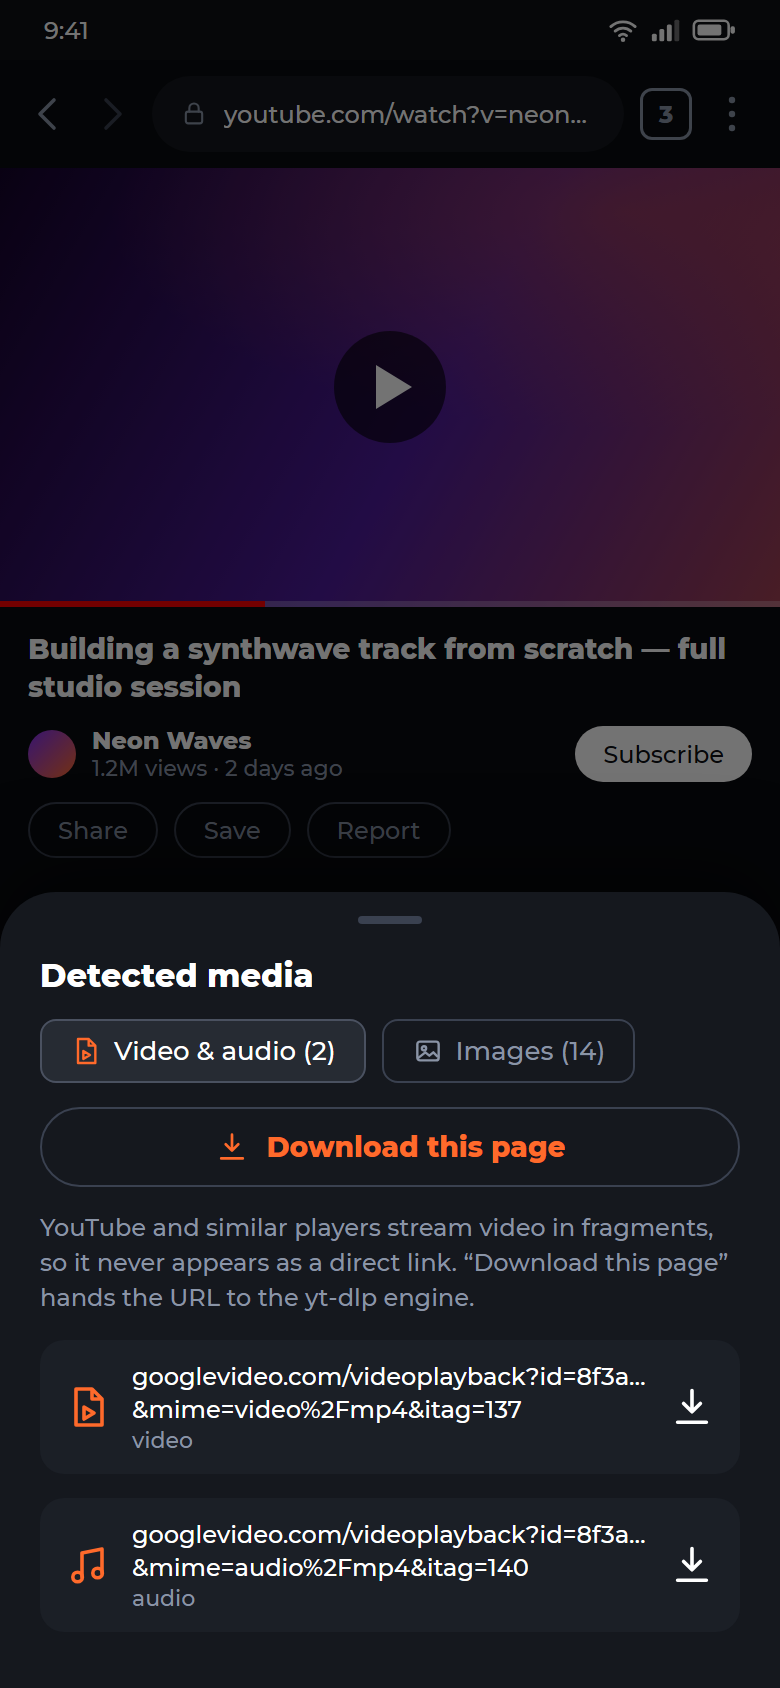
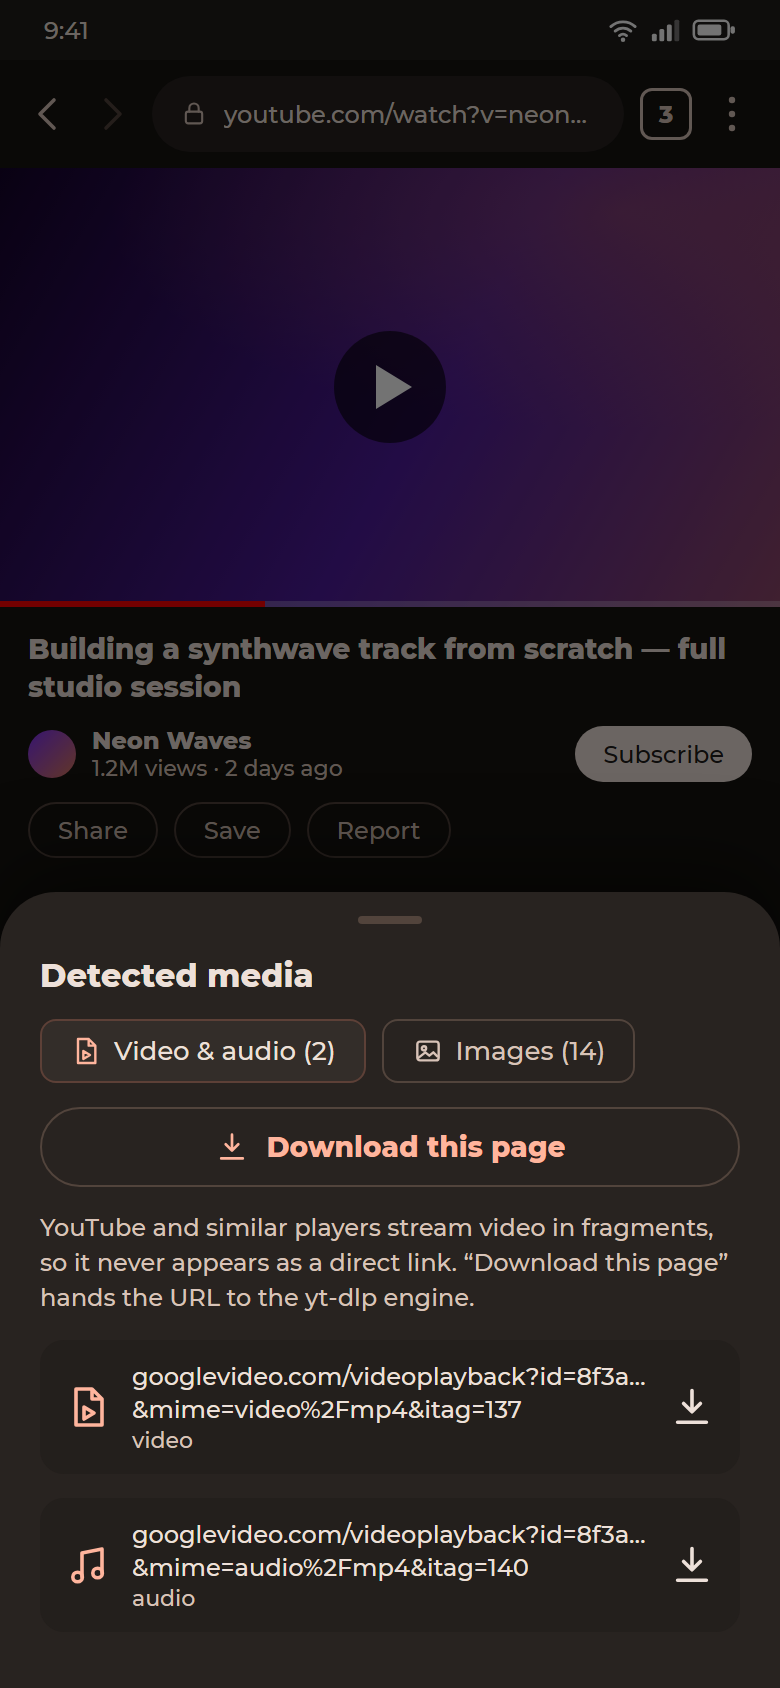
fix(stream): use SubtitlesStream.languageTag (verified v0.27.1 API)
Also add light/dark @Preview coverage for scheme, components and player
parts, and refresh docs screenshots with the charcoal/terracotta palette.

diff --git a/app/src/main/java/com/raisoft/grabi/ui/theme/ThemePreviews.kt b/app/src/main/java/com/raisoft/grabi/ui/theme/ThemePreviews.kt
@@ -1,0 +1,120 @@
+package com.raisoft.grabi.ui.theme
+
+import androidx.compose.foundation.background
+import androidx.compose.foundation.layout.Arrangement
+import androidx.compose.foundation.layout.Box
+import androidx.compose.foundation.layout.Column
+import androidx.compose.foundation.layout.Row
+import androidx.compose.foundation.layout.fillMaxSize
+import androidx.compose.foundation.layout.fillMaxWidth
+import androidx.compose.foundation.layout.padding
+import androidx.compose.foundation.layout.size
+import androidx.compose.foundation.shape.RoundedCornerShape
+import androidx.compose.material.icons.Icons
+import androidx.compose.material.icons.rounded.Download
+import androidx.compose.material3.MaterialTheme
+import androidx.compose.material3.Surface
+import androidx.compose.material3.Text
+import androidx.compose.runtime.Composable
+import androidx.compose.ui.Alignment
+import androidx.compose.ui.Modifier
+import androidx.compose.ui.draw.clip
+import androidx.compose.ui.graphics.Color
+import androidx.compose.ui.tooling.preview.Preview
+import androidx.compose.ui.unit.dp
+import com.raisoft.grabi.data.settings.ThemeMode
+import com.raisoft.grabi.ui.components.EmptyState
+import com.raisoft.grabi.ui.components.GlassNavBar
+import com.raisoft.grabi.ui.navigation.TopLevelDestination
+
+@Preview(name = "Scheme - Light", showBackground = true)
+@Composable
+private fun SchemeLightPreview() {
+    GrabiTheme(themeMode = ThemeMode.LIGHT) { SchemeSwatches() }
+}
+
+@Preview(name = "Scheme - Dark", showBackground = true)
+@Composable
+private fun SchemeDarkPreview() {
+    GrabiTheme(themeMode = ThemeMode.DARK) { SchemeSwatches() }
+}
+
+@Preview(name = "Components - Light", showBackground = true)
+@Composable
+private fun ComponentsLightPreview() {
+    GrabiTheme(themeMode = ThemeMode.LIGHT) { ComponentSample() }
+}
+
+@Preview(name = "Components - Dark", showBackground = true)
+@Composable
+private fun ComponentsDarkPreview() {
+    GrabiTheme(themeMode = ThemeMode.DARK) { ComponentSample() }
+}
+
+@Composable
+private fun SchemeSwatches() {
+    val scheme = MaterialTheme.colorScheme
+    val roles = listOf(
+        "primary" to scheme.primary,
+        "onPrimary" to scheme.onPrimary,
+        "primaryContainer" to scheme.primaryContainer,
+        "secondary" to scheme.secondary,
+        "tertiary" to scheme.tertiary,
+        "error" to scheme.error,
+        "background" to scheme.background,
+        "surface" to scheme.surface,
+        "surfaceVariant" to scheme.surfaceVariant,
+        "outline" to scheme.outline,
+        "outlineVariant" to scheme.outlineVariant,
+        "containerLowest" to scheme.surfaceContainerLowest,
+        "containerLow" to scheme.surfaceContainerLow,
+        "container" to scheme.surfaceContainer,
+        "containerHigh" to scheme.surfaceContainerHigh,
+        "containerHighest" to scheme.surfaceContainerHighest,
+        "inverseSurface" to scheme.inverseSurface,
+        "scrim" to scheme.scrim,
+    )
+    Surface(color = scheme.background, modifier = Modifier.fillMaxSize()) {
+        Column(
+            modifier = Modifier.fillMaxSize().padding(16.dp),
+            verticalArrangement = Arrangement.spacedBy(4.dp),
+        ) {
+            Text("Grabi scheme", style = MaterialTheme.typography.titleMedium)
+            roles.forEach { (name, color) ->
+                Row(verticalAlignment = Alignment.CenterVertically) {
+                    Box(
+                        modifier = Modifier
+                            .size(20.dp)
+                            .clip(RoundedCornerShape(4.dp))
+                            .background(color),
+                    )
+                    Text(
+                        text = name,
+                        style = MaterialTheme.typography.bodySmall,
+                        color = scheme.onBackground,
+                        modifier = Modifier.padding(start = 8.dp),
+                    )
+                }
+            }
+        }
+    }
+}
+
+@Composable
+private fun ComponentSample() {
+    Surface(color = MaterialTheme.colorScheme.background, modifier = Modifier.fillMaxSize()) {
+        Column(Modifier.fillMaxSize()) {
+            EmptyState(
+                icon = Icons.Rounded.Download,
+                title = "Nothing here yet",
+                message = "Grabbed videos and audio will appear in this library.",
+                modifier = Modifier.fillMaxWidth().weight(1f),
+            )
+            GlassNavBar(
+                currentRoute = TopLevelDestination.HOME.route,
+                onSelect = {},
+                modifier = Modifier.padding(bottom = 24.dp),
+            )
+        }
+    }
+}

diff --git a/app/src/main/java/com/raisoft/grabi/ui/screens/player/PlayerScreen.kt b/app/src/main/java/com/raisoft/grabi/ui/screens/player/PlayerScreen.kt
@@ -919,3 +919,48 @@ private fun AudioStage(info: StreamInfo?) {
         }
     }
 }
+
+@androidx.compose.ui.tooling.preview.Preview(name = "Player parts - Light", showBackground = true)
+@Composable
+private fun PlayerPartsLightPreview() {
+    com.raisoft.grabi.ui.theme.GrabiTheme(themeMode = com.raisoft.grabi.data.settings.ThemeMode.LIGHT) {
+        PlayerPartsSample()
+    }
+}
+
+@androidx.compose.ui.tooling.preview.Preview(name = "Player parts - Dark", showBackground = true)
+@Composable
+private fun PlayerPartsDarkPreview() {
+    com.raisoft.grabi.ui.theme.GrabiTheme(themeMode = com.raisoft.grabi.data.settings.ThemeMode.DARK) {
+        PlayerPartsSample()
+    }
+}
+
+@Composable
+private fun PlayerPartsSample() {
+    Column(
+        modifier = Modifier
+            .fillMaxWidth()
+            .background(MaterialTheme.colorScheme.background)
+            .padding(16.dp),
+        verticalArrangement = Arrangement.spacedBy(12.dp),
+    ) {
+        SeekBar(positionMs = 42_000, durationMs = 210_000, bufferedMs = 95_000, onSeek = {})
+        Row(horizontalArrangement = Arrangement.spacedBy(8.dp)) {
+            ActionChip(icon = Icons.Rounded.Download, label = "Download", onClick = {})
+            ActionChip(icon = Icons.Rounded.MusicNote, label = "Audio", active = true, onClick = {})
+        }
+        RelatedRow(
+            item = FeedItem(
+                url = "https://youtube.com/watch?v=preview",
+                title = "Sample related video with a reasonably long title",
+                uploader = "Raisoft Studio",
+                uploaderAvatarUrl = null,
+                thumbnailUrl = null,
+                durationSeconds = 372,
+                viewCount = 12_400,
+            ),
+            onClick = {},
+        )
+    }
+}

diff --git a/app/src/main/java/com/raisoft/grabi/data/stream/StreamRepository.kt b/app/src/main/java/com/raisoft/grabi/data/stream/StreamRepository.kt
@@ -108,7 +108,7 @@ class StreamRepository @Inject constructor(
             )
         }
         val subtitle = runCatching {
-            extractor.subtitlesDefault.firstOrNull { it.languageCode == "en" }
+            extractor.subtitlesDefault.firstOrNull { it.languageTag == "en" }
                 ?: extractor.subtitlesDefault.firstOrNull()
         }.getOrNull()
         return StreamInfo(
@@ -128,7 +128,7 @@ class StreamRepository @Inject constructor(
                 extractor.uploaderAvatars.maxByOrNull { it.width }?.url
             }.getOrNull(),
             subtitleUrl = subtitle?.content,
-            subtitleLanguage = subtitle?.languageCode,
+            subtitleLanguage = subtitle?.languageTag,
             related = relatedItems(extractor),
         )
     }
